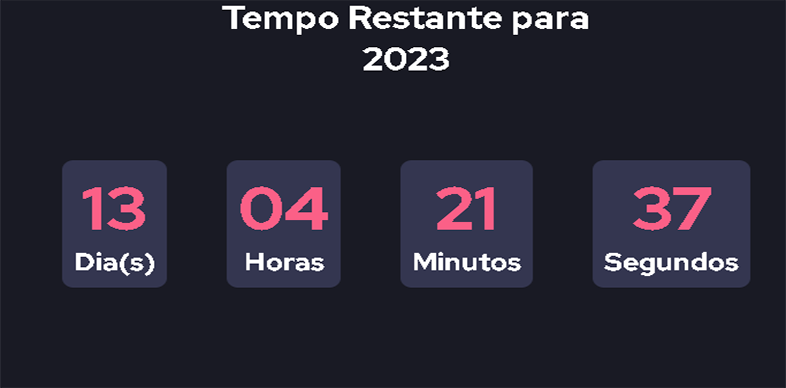
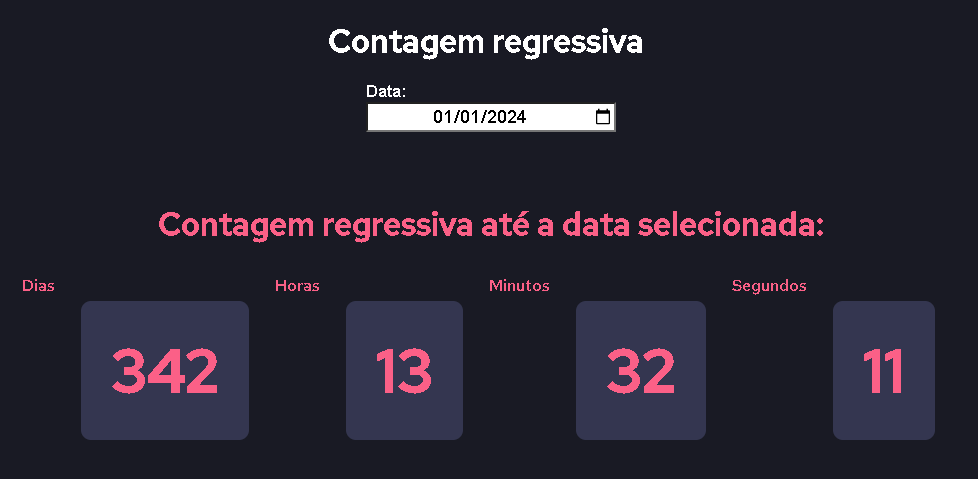
Contador Corrigido

diff --git a/index.html b/index.html
@@ -1397,11 +1397,11 @@
           <div class="card">
             <img src="imagens/contador.png" class="card-img-top" alt="...">
             <div class="card-body">
-              <h5 class="card-title">Contador Regressivo para virada do Ano</h5>
+              <h5 class="card-title">Contador Regressivo de acordo com data selecionada</h5>
               <p><span class="html">HTML</span> <span class="css">CSS</span>  <span class="javascript">JavaScript</span></p>
-              <p class="card-text">Contador regressivo que mostra dias, horas, minutos e segundos para o ano novo</p>
+              <p class="card-text">Contador regressivo que mostra dias, horas, minutos e segundos faltando para a data digitada no input</p>
               <div class="button-div">
-                <a href="https://alanalmeida8245.github.io/Contador-Para-Ano-Novo/" class="btn" target="_blank">
+                <a href="https://contador-regressivo.vercel.app/" class="btn" target="_blank">
                   <div>Acessar</div>
                 </a>
                 <a href="https://github.com/AlanAlmeida8245/Contador-Para-Ano-Novo">
